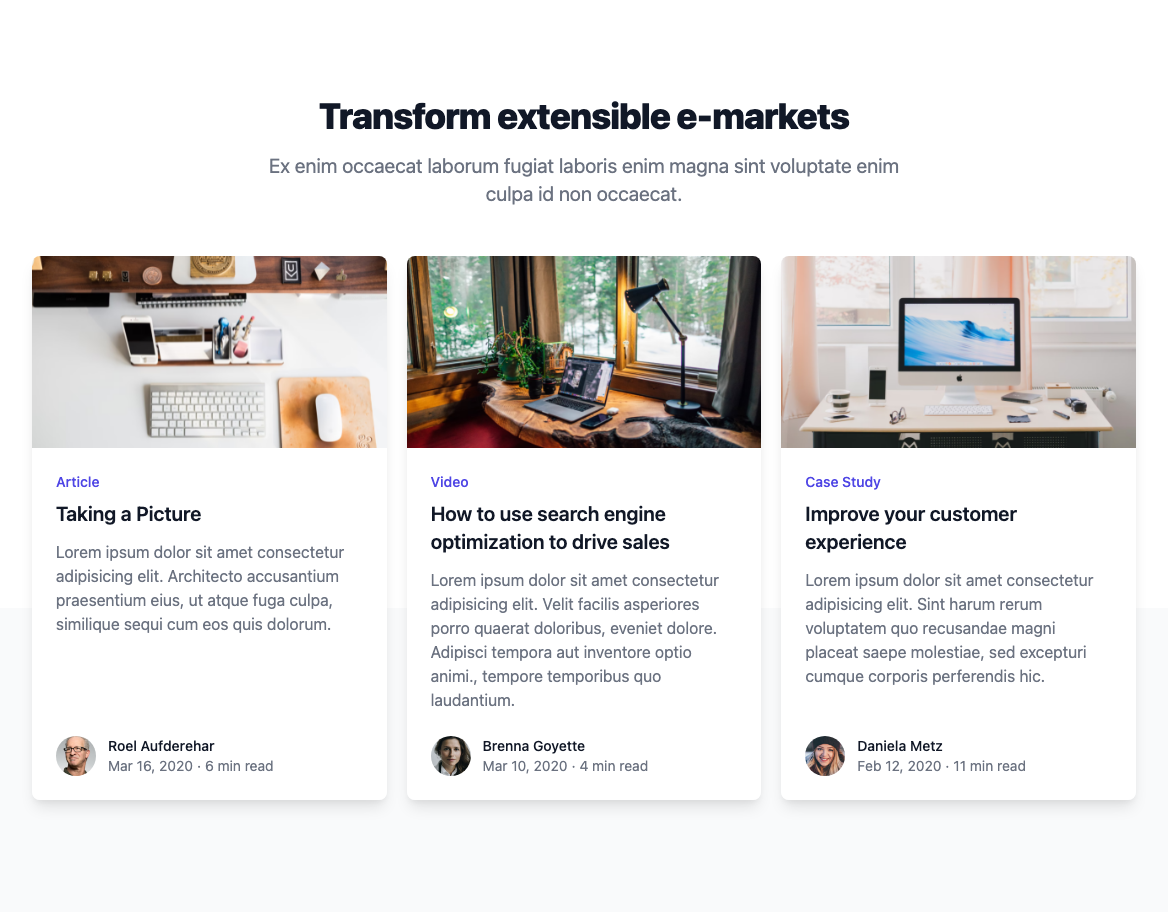
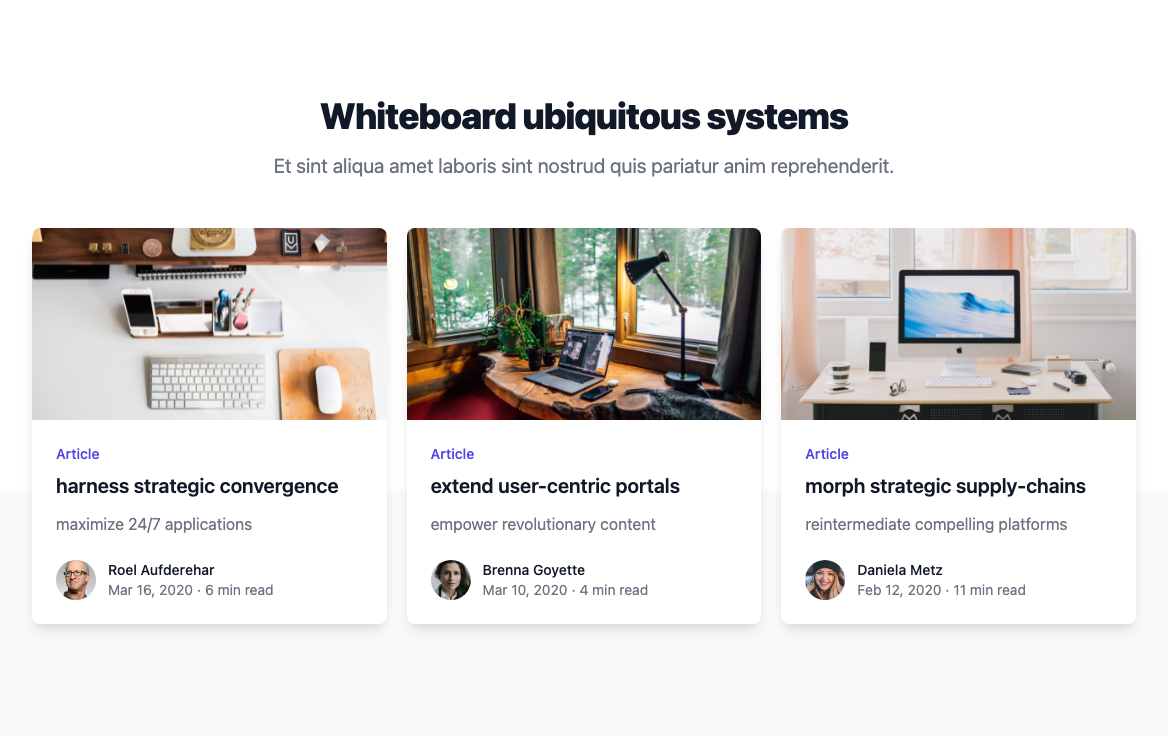
finalizing mkt slices

Changed region(s): [[0.0, 0.2812, 0.9863, 0.875], [0.2158, 0.0938, 0.7705, 0.25], [0.0308, 0.75, 0.3082, 0.875]]

diff --git a/slices/marketing/BlogSectionThreeColumnCards/index.js b/slices/marketing/BlogSectionThreeColumnCards/index.js
@@ -24,7 +24,7 @@ const posts = [
   {
     title: 'How to use search engine optimization to drive sales',
     href: '#',
-    category: { name: 'Video', href: '#' },
+    category: { name: 'Article', href: '#' },
     description:
       'Lorem ipsum dolor sit amet consectetur adipisicing elit. Velit facilis asperiores porro quaerat doloribus, eveniet dolore. Adipisci tempora aut inventore optio animi., tempore temporibus quo laudantium.',
     date: 'Mar 10, 2020',
@@ -42,7 +42,7 @@ const posts = [
   {
     title: 'Improve your customer experience',
     href: '#',
-    category: { name: 'Case Study', href: '#' },
+    category: { name: 'Article', href: '#' },
     description:
       'Lorem ipsum dolor sit amet consectetur adipisicing elit. Sint harum rerum voluptatem quo recusandae magni placeat saepe molestiae, sed excepturi cumque corporis perferendis hic.',
     date: 'Feb 12, 2020',
@@ -74,48 +74,40 @@ const BlogSectionThreeColumnCards = ({ slice }) => (
           </div>
         </div>
         <div className="mt-12 max-w-lg mx-auto grid gap-5 lg:grid-cols-3 lg:max-w-none">
-          {posts.map((post,index) => (
-            <div key={post.title} className="flex flex-col rounded-lg shadow-lg overflow-hidden">
+          {slice.items.map((item,index) => (
+            <div key={item.title} className="flex flex-col rounded-lg shadow-lg overflow-hidden">
               <div className="flex-shrink-0">
-                <img className="h-48 w-full object-cover" src={post.imageUrl} alt="" />
+                <img className="h-48 w-full object-cover" src={item.image.url} alt={item.image.alt} />
               </div>
               <div className="flex-1 bg-white p-6 flex flex-col justify-between">
                 <div className="flex-1">
                   <p className="text-sm font-medium text-indigo-600">
-                    <a href={post.category.href} className="hover:underline">
-                      {post.category.name}
+                    <a href="#" className="hover:underline">
+                      {item.category}
                     </a>
                   </p>
-                  {
-                    slice.items[index] ?
-                      <a href={Link.url(slice.items[index].article)} className="block mt-2">
-                        <p className="text-xl font-semibold text-gray-900">{slice.items[index].title}</p>
-                        <p className="mt-3 text-base text-gray-500">{slice.items[index].description}</p>
-                      </a>
-                        :
-                    <a href={post.href} className="block mt-2">
-                      <p className="text-xl font-semibold text-gray-900">{post.title}</p>
-                      <p className="mt-3 text-base text-gray-500">{post.description}</p>
-                    </a>
-                  }
+                  <a href={Link.url(item.article)} className="block mt-2">
+                    <p className="text-xl font-semibold text-gray-900">{item.title}</p>
+                    <p className="mt-3 text-base text-gray-500">{item.description}</p>
+                  </a>
                 </div>
                 <div className="mt-6 flex items-center">
                   <div className="flex-shrink-0">
-                    <a href={post.author.href}>
-                      <span className="sr-only">{post.author.name}</span>
-                      <img className="h-10 w-10 rounded-full" src={post.author.imageUrl} alt="" />
+                    <a href="#">
+                      <span className="sr-only">{item.author}</span>
+                      <img className="h-10 w-10 rounded-full" src={item.authorImage.url} alt="" />
                     </a>
                   </div>
                   <div className="ml-3">
                     <p className="text-sm font-medium text-gray-900">
-                      <a href={post.author.href} className="hover:underline">
-                      {post.author.name}
+                      <a href="#" className="hover:underline">
+                      {item.author}
                       </a>
                     </p>
                     <div className="flex space-x-1 text-sm text-gray-500">
-                      <time dateTime={post.datetime}>{post.date}</time>
+                      <time dateTime={item.date}>{item.date}</time>
                       <span aria-hidden="true">&middot;</span>
-                      <span>{post.readingTime} read</span>
+                      <span>{item.minutesToRead} minutes read</span>
                     </div>
                   </div>
                 </div>

diff --git a/.slicemachine/assets/slices/marketing/BlogSectionThreeColumnCards/index.stories.js b/.slicemachine/assets/slices/marketing/BlogSectionThreeColumnCards/index.stories.js
@@ -5,5 +5,5 @@ export default {
 }
 
 
-export const _DefaultSlice = () => <MyComponent slice={{"variation":"default-slice","name":"Default slice","slice_type":"blog_section_three_column_cards","items":[{"article":{"link_type":"Web","url":"http://google.com"},"title":"orchestrate innovative platforms","description":"scale leading-edge experiences"},{"article":{"link_type":"Web","url":"http://twitter.com"},"title":"integrate end-to-end markets","description":"monetize visionary eyeballs"},{"article":{"link_type":"Web","url":"https://slicemachine.dev"},"title":"deploy holistic platforms","description":"target holistic technologies"},{"article":{"link_type":"Web","url":"http://google.com"},"title":"synergize value-added schemas","description":"implement cross-media models"},{"article":{"link_type":"Web","url":"http://twitter.com"},"title":"drive 24/7 mindshare","description":"maximize intuitive web-readiness"}],"primary":{"title":[{"type":"heading1","text":"Transform extensible e-markets","spans":[]}],"description":[{"type":"paragraph","text":"Ex enim occaecat laborum fugiat laboris enim magna sint voluptate enim culpa id non occaecat.","spans":[]}]},"id":"_DefaultSlice"}} />
+export const _DefaultSlice = () => <MyComponent slice={{"variation":"default-slice","name":"Default slice","slice_type":"blog_section_three_column_cards","items":[{"article":{"link_type":"Web","url":"https://prismic.io"},"category":"grow holistic ROI","title":"harness strategic convergence","description":"maximize 24/7 applications","image":{"dimensions":{"width":900,"height":500},"alt":"Placeholder image","copyright":null,"url":"https://images.unsplash.com/photo-1486312338219-ce68d2c6f44d?w=900&h=500&fit=crop"},"author":"utilize synergistic systems","authorImage":{"dimensions":{"width":900,"height":500},"alt":"Placeholder image","copyright":null,"url":"https://images.unsplash.com/photo-1493119508027-2b584f234d6c?w=900&h=500&fit=crop"},"date":"2019-11-30","minutesToRead":7069},{"article":{"link_type":"Web","url":"http://google.com"},"category":"reintermediate synergistic blockchains","title":"extend user-centric portals","description":"empower revolutionary content","image":{"dimensions":{"width":900,"height":500},"alt":"Placeholder image","copyright":null,"url":"https://images.unsplash.com/photo-1541807084-5c52b6b3adef?w=900&h=500&fit=crop"},"author":"evolve extensible methodologies","authorImage":{"dimensions":{"width":900,"height":500},"alt":"Placeholder image","copyright":null,"url":"https://images.unsplash.com/photo-1531771686035-25f47595c87a?w=900&h=500&fit=crop"},"date":"2016-12-18","minutesToRead":7982},{"article":{"link_type":"Web","url":"https://slicemachine.dev"},"category":"envisioneer sexy e-business","title":"morph strategic supply-chains","description":"reintermediate compelling platforms","image":{"dimensions":{"width":900,"height":500},"alt":"Placeholder image","copyright":null,"url":"https://images.unsplash.com/photo-1560457079-9a6532ccb118?w=900&h=500&fit=crop"},"author":"grow bleeding-edge relationships","authorImage":{"dimensions":{"width":900,"height":500},"alt":"Placeholder image","copyright":null,"url":"https://images.unsplash.com/photo-1493119508027-2b584f234d6c?w=900&h=500&fit=crop"},"date":"2020-09-08","minutesToRead":9776}],"primary":{"title":[{"type":"heading1","text":"Whiteboard ubiquitous systems","spans":[]}],"description":[{"type":"paragraph","text":"Et sint aliqua amet laboris sint nostrud quis pariatur anim reprehenderit.","spans":[]}]},"id":"_DefaultSlice"}} />
 _DefaultSlice.storyName = 'Default slice'

diff --git a/slices/marketing/ContentSectionCenteredEmbed/index.js b/slices/marketing/ContentSectionCenteredEmbed/index.js
@@ -5,7 +5,7 @@ const ContentSectionCenteredEmbed = ({ slice }) => (
   <section>
     <div className="mt-6 prose prose-indigo prose-lg text-gray-500 mx-auto">
       {slice.primary.EmbedItem.embed_url &&
-      <iframe className="w-full h-80 md:h-96" src={slice.primary.EmbedItem.embed_url.replace("watch\?v=","embed/").replace("vimeo\.com","player\.vimeo\.com\/video")} title="YouTube video player" frameborder="0" allow="accelerometer; autoplay; clipboard-write; encrypted-media; gyroscope; picture-in-picture" allowfullscreen></iframe>
+      <iframe className="w-full h-80 md:h-96" src={slice.primary.EmbedItem.embed_url.replace("watch\?v=","embed/").replace("vimeo\.com","player\.vimeo\.com\/video")} title="YouTube video player" frameBorder="0" allow="accelerometer; autoplay; clipboard-write; encrypted-media; gyroscope; picture-in-picture" allowFullScreen></iframe>
       }
       </div>
   </section>
